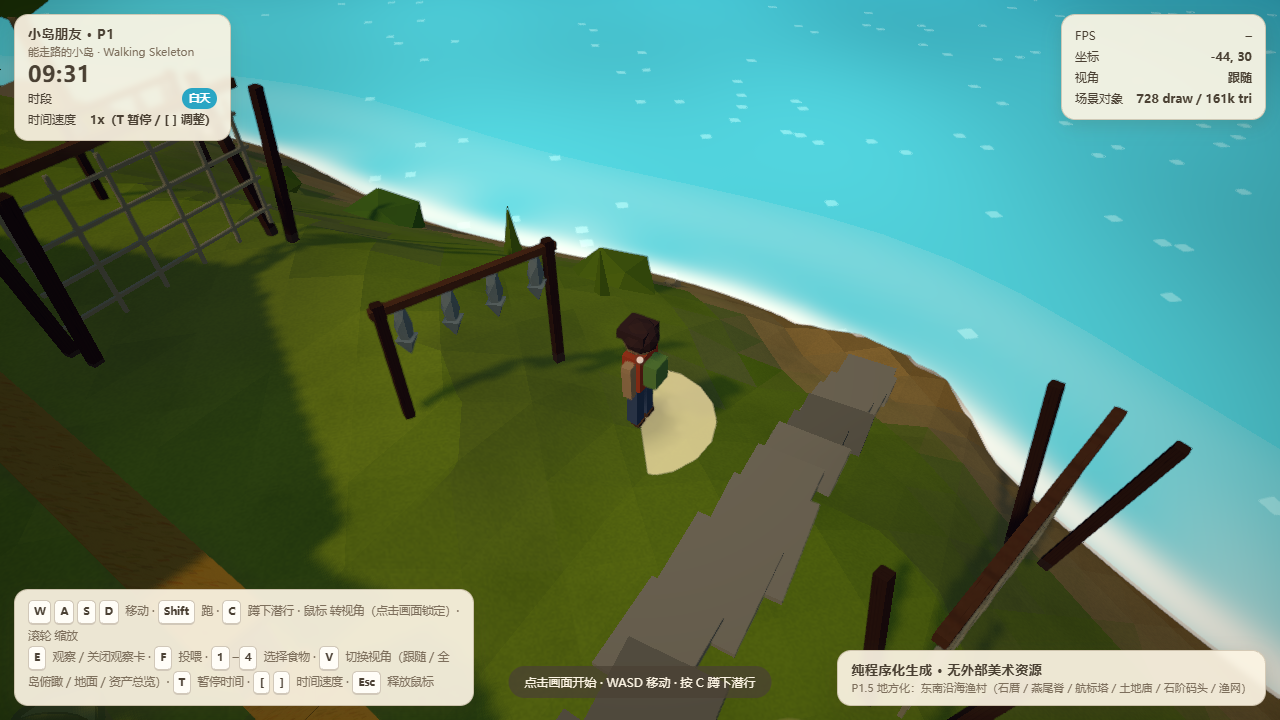
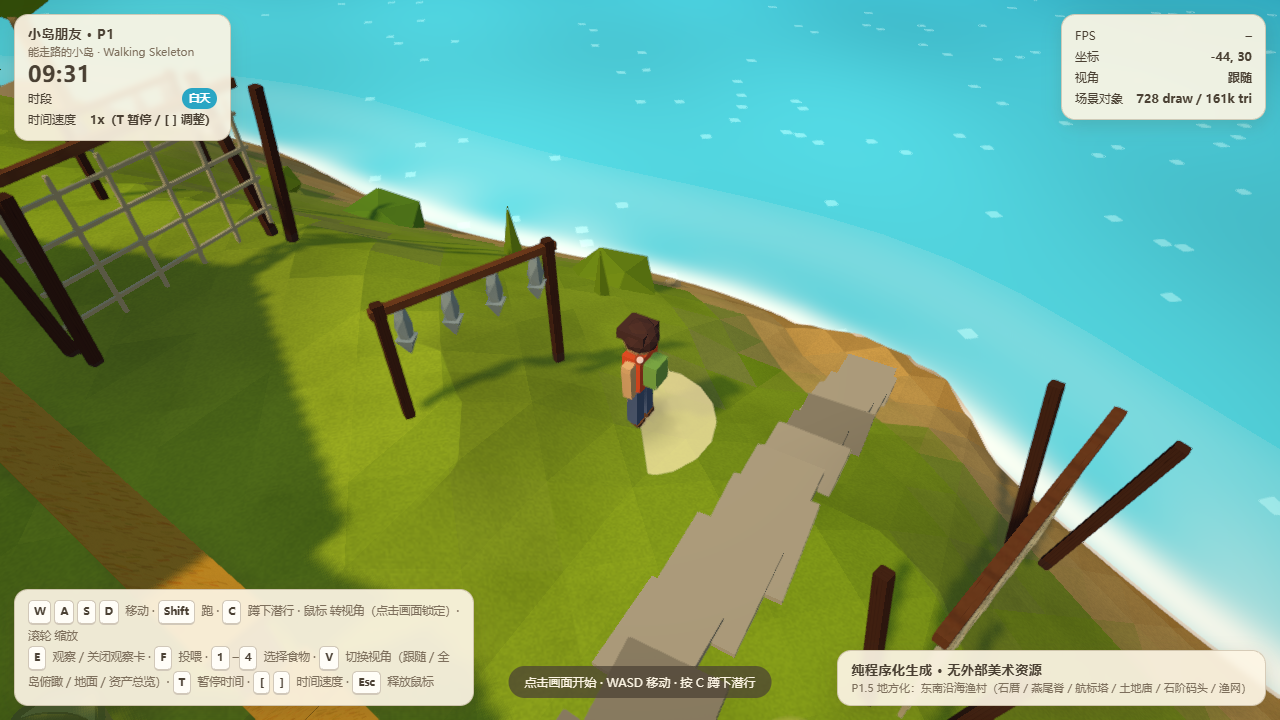
P5-10 画风修正：光照单位（three 物理光照要乘 pi）+ 屋顶配色回归
用户反馈：『我现在觉得画风不太可爱』。先把概念图和当前画面裁到岛的范围、
按色相分组统计像素，再据此定位：

    指标             概念图目标   改前   改后
    整幅亮度            188       123    158
    草地亮度            173        88    143
    暖沙亮度            190        86    139
    红色亮度/占比   125 / 6.2%  41/1.8%  76/2.4%
    海水亮度            180       174    184

海水本来就对得上（自定义着色器不吃光照），草地/沙/屋顶全走光照却只有一半亮
-> 问题不在色板，在灯。

1) three r155 之后是物理光照单位。src/core/sky.js:114/120 把昼夜关键帧数值
   直接写进 sun.intensity / hemi.intensity，0.95 这种『接近满亮』的老数值实际
   只剩约三分之一（漫反射要除以 pi）。拿 #9FC03C 核算：0.428 x 0.95/pi = 0.121
   线性 -> 97/255，实测草地绿通道 98，对上了。
   新增 world.json 的 dayPhases.lightScale: 2.6，URL ?light= 可覆盖。
   不加 tone mapping：概念图是平涂粉彩，filmic 会压暗部、掉饱和。
2) world.json:140-143 四栋房子的屋顶在配置里就是灰的（#8B9095/#6E7378/#9AA0A4），
   与 docs/02-art-direction.md:15,71 定稿的『红/黄/青』冲突，是文档级回归。
   已恢复为红 #D9534F / 黄 #E8B44A / 青 #4FA3A5 / 绿 #7FAE4E；
   src/world/gallery.js:16-18 的资产总览同步改色改标签。
3) grade.vignette 0.26 -> 0.10（实测 0.26 把整幅平均压暗 6%，对粉彩是反向操作）。

回归：audit 0 问题（63 件）· collision 12/12 · trust 17/17 · camera 9/9 ·
postfx 6/6 · audit-guard 有效 · input 通过 · 单文件离线通过 · check-bom 无 BOM
draw call：分级关闭 1328 / 174k tri（红线 2000）

未做（已记进 docs/11-handoff.md 待办）：沙滩加宽、其它石砌屋顶的冷灰、
夜里海面不发暗（ocean.js 的 update 只接收雾色）。

对照图：shots/p5j-compare-top.png · shots/p5j-compare-village.png

diff --git a/src/world/gallery.js b/src/world/gallery.js
@@ -13,9 +13,9 @@ export function createGallery(scene, cfg, assets, palette, extraItems = []) {
   const dz = 24;
 
   const items = [
-    { label: '石厝 · 灰瓦', make: () => assets.makeStoneHouse(rand, { style: 'stone', w: 9.0, d: 7.4, wallH: 3.4, roofH: 2.6, roofTile: '#8B9095', ridge: '#B4553F', rot: 0 }) },
-    { label: '石厝 · 白墙', make: () => assets.makeStoneHouse(rand, { style: 'white', w: 8.4, d: 7.0, wallH: 3.2, roofH: 2.5, roofTile: '#6E7378', ridge: '#B4553F', rot: 0 }) },
-    { label: '红砖厝', make: () => assets.makeStoneHouse(rand, { style: 'brick', w: 8.8, d: 7.2, wallH: 3.3, roofH: 2.6, roofTile: '#8B9095', ridge: '#D9453A', rot: 0 }) },
+    { label: '石厝 · 红瓦', make: () => assets.makeStoneHouse(rand, { style: 'stone', w: 9.0, d: 7.4, wallH: 3.4, roofH: 2.6, roofTile: '#D9534F', ridge: '#B4553F', rot: 0 }) },
+    { label: '石厝 · 黄瓦（白墙）', make: () => assets.makeStoneHouse(rand, { style: 'white', w: 8.4, d: 7.0, wallH: 3.2, roofH: 2.5, roofTile: '#E8B44A', ridge: '#B4553F', rot: 0 }) },
+    { label: '红砖厝 · 青瓦', make: () => assets.makeStoneHouse(rand, { style: 'brick', w: 8.8, d: 7.2, wallH: 3.3, roofH: 2.6, roofTile: '#4FA3A5', ridge: '#D9453A', rot: 0 }) },
     { label: '石砌院墙', make: () => assets.makeStoneWallYard(13, 11, { gaps: [{ x: 0, z: 5.5, r: 2.6 }] }) },
     { label: '航标塔（地标）', make: () => assets.makeBeaconTower({ height: 14.5 }).group },
     { label: '土地庙', make: () => assets.makeShrine().group },

diff --git a/src/core/sky.js b/src/core/sky.js
@@ -2,7 +2,10 @@ import * as THREE from 'three';
 import { clamp, lerp } from './rng.js';
 
 // 昼夜天空 + 光照。天空是一个跟在相机上的渐变穹顶（还原参考图的奶油天空）
-export function createSky(scene, dayPhases, palette) {
+// lightScale：整体光照倍率。three r155 之后是物理光照单位，关键帧里 0.95 这种"接近满亮"的
+// 老数值实际只有约三分之一亮度，所以需要一个可以整体抬升/压低灯的旋钮。
+// 正常玩时由 world.json 的 dayPhases 决定；URL ?light=2.6 可以实时预览不同倍率。
+export function createSky(scene, dayPhases, palette, lightScale = 1) {
   const uniforms = {
     uTop: { value: new THREE.Color(palette.skyTop) },
     uHorizon: { value: new THREE.Color(palette.skyHorizon) },
@@ -111,13 +114,13 @@ export function createSky(scene, dayPhases, palette) {
     uniforms.uSunStrength.value = clamp(cfg.sunIntensity, 0.1, 1.4);
 
     sun.color.copy(cfg.sun);
-    sun.intensity = cfg.sunIntensity;
+    sun.intensity = cfg.sunIntensity * lightScale;
     const focusPos = focus || new THREE.Vector3();
     sun.target.position.copy(focusPos);
     sun.position.copy(focusPos).addScaledVector(sunDir, 120);
 
     hemi.color.copy(cfg.ambient);
-    hemi.intensity = cfg.ambientIntensity;
+    hemi.intensity = cfg.ambientIntensity * lightScale;
 
     fog.color.copy(cfg.fog);
     fog.near = 240;

diff --git a/src/main.js b/src/main.js
@@ -155,7 +155,9 @@ async function boot() {
     ocean.foamHalo.mesh.visible = false;
   }
   if (hide.includes('ponds')) ocean.pondGroup.visible = false;
-  const sky = createSky(scene, cfg.dayPhases, palette);
+  // 光照整体倍率：world.json 的 dayPhases.lightScale 是默认值（见那里的说明），?light=2.6 可临时覆盖
+  const lightScale = parseFloat(params.get('light') ?? cfg.dayPhases.lightScale ?? '1');
+  const sky = createSky(scene, cfg.dayPhases, palette, Number.isFinite(lightScale) ? lightScale : 1);
   mark('ocean+sky');
 
   hud.setLoading('正在种树、灌木、石头与野花…', 0.5);

diff --git a/CHANGELOG.md b/CHANGELOG.md
@@ -505,3 +505,65 @@
 **截图**：`shots/p5h-door-house-stone.png` / `-house-white` / `-house-brick` / `-house-stone2` —— 每栋一张"从院门外看进去"，
 可以核对：门在正中、院门缺口正对门、信箱立在缺口旁边、石板路接到院门口。
 工具：`node tools/shoot-doors.mjs`（会顺便打印每栋的门↔院门对齐度）
+---
+
+## P5-10 · 画风修正：光照单位 + 屋顶配色回归 — tag `p5.10-lighting-roofs`
+
+**你的反馈**：「我现在觉得画风不太可爱。」
+
+**先量，再改。** 把 `concepts/island-style-concept.png` 和当前画面**裁到岛的范围、按色相分组统计像素**（正午、俯视）：
+
+| 指标 | 概念图（目标） | 改动前 | 改动后 |
+| --- | --- | --- | --- |
+| 整幅亮度 | 188/255 | 123 | **158** |
+| 草地亮度 | 173 | 88 | **143** |
+| 暖沙亮度 | 190 | 86 | **139** |
+| 红色（屋顶/树冠）亮度 / 占比 | 125 / 6.2% | 41 / 1.8% | **76 / 2.4%** |
+| 海水亮度 | 180 | 174 | 184 |
+
+关键线索在最后一行：**海和天是自定义着色器（不吃光照），颜色本来就对；草地、沙、屋顶、房子全走光照，全都只有一半亮。**
+所以问题不在色板（`world.json` 里草地 `#9FC03C`、沙 `#F2CE86` 本来就是对的），在灯。
+
+**根因 1 · three 的物理光照单位（这一条解释了上述所有数字）**
+`src/core/sky.js:114` / `:120` 把昼夜关键帧的数值**直接**写进灯：
+`sun.intensity = cfg.sunIntensity`（正午 0.95）、`hemi.intensity = cfg.ambientIntensity`（正午 0.42）。
+但本项目用 three **r186**，r155 之后是物理光照单位，同样的老数值**要乘 π 才是设计意图的亮度**（漫反射要除以 π）。
+拿草核算：`#9FC03C` 线性反照率 0.428 × (0.95/π) ≈ **0.121 线性 → 97/255**，而实测草地绿通道是 **98**。公式和像素对上了。
+
+- 修法：`src/data/world.json:91-93` 新增 `dayPhases.lightScale: 2.6`，`src/core/sky.js` 用它乘太阳与环境光；
+  URL `?light=` 可临时覆盖做对比。我没有加 tone mapping —— 概念图是平涂粉彩，filmic 会压暗部、掉饱和，反而更不像。
+- 试过 ×3.3：更亮但发白掉饱和，×2.6 是保色最好的一档。
+
+**根因 2 · 四栋房子的屋顶在配置里就是灰的（文档级回归）**
+`world.json:140-143` 原来是 `#8B9095` / `#6E7378` / `#9AA0A4`（冷灰），
+而 `docs/02-art-direction.md:15` 和 `:71` 定稿的是**红/黄/青**。已恢复：
+house-stone `#D9534F`（红）· house-white `#E8B44A`（黄）· house-brick `#4FA3A5`（青）· house-stone2 `#7FAE4E`（绿）。
+`src/world/gallery.js:16-18` 的资产总览跟着改成同一批颜色（标签也从"灰瓦"改掉），否则资产总览会和实际场景对不上。
+
+**根因 3 · 暗角太重**：`world.json` 的 `grade.vignette` 0.26 → **0.10**。实测 0.26 把整幅画面平均压暗 6%（边缘更狠），
+对明亮粉彩风格是反向操作。
+
+**我没做（留待你点头）**
+- **沙滩没变宽**：A 档把沙提亮了（86→139），但"环岛沙带"的宽度是几何问题，属于下一档。
+- **其它石砌屋顶还是冷灰**：`world.json:54-55` 的 `palette.roofTile #8B9095` / `roofTileDark #6E7378` 仍是灰的，
+  被井亭等结构直接用（`src/world/assets.js:837` / `:931`）。房子刷彩之后它更显眼了。
+- **夜里 21 点的海面还是白天的亮青色**：海是自定义着色器，`src/world/ocean.js:235` 的 `update()` 只接收雾色、不接收昼夜明暗，
+  所以夜里的陆地是暗绿的、海却亮得发光。**这个不是本次改动造成的，之前就存在。**
+- 红色占比 2.4% vs 目标 6.2% —— 这是**面积**问题（屋顶/树冠比概念图小），属于改形状那一档，不是颜色问题。
+
+**验证**
+
+| 项 | 结果 |
+| --- | --- |
+| audit | **0 问题**（63 件） |
+| 回归 | collision 12/12 · trust 17/17 · camera 9/9 · postfx 6/6 · audit-guard ✅ · input ✅ · 单文件离线 ✅ |
+| check-bom | 无 BOM |
+| draw call | 分级关闭 1328 / 174k tri（红线 ≤2000，达标） |
+| 单文件 | 已重建 `小岛朋友.html`（0.85MB） |
+
+**踩坑记录（重要）**：这轮第一版"改动后"对比图和"改动前"**逐字节相同**。
+原因：`tools/lib/target.mjs:9-23` 在 5173 端口没有服务时会**自动退回旧的单文件产物** `小岛朋友.html`，
+于是我改了源码、截的却是老构建。**教训：改源码出图前先确认 dev server 在跑**（否则图会静静地骗你）。
+
+**对照图**：`shots/p5j-compare-top.png`（概念图 / 改动前 / 改动后 三格）· `shots/p5j-compare-village.png`（村口实机机位前后对比）
+**阶段截图**：`shots/p5j-top-day.png` · `p5j-village-day.png` · `p5j-ground-day.png` · `p5j-night.png`（全部取自重建后的单文件产物）
